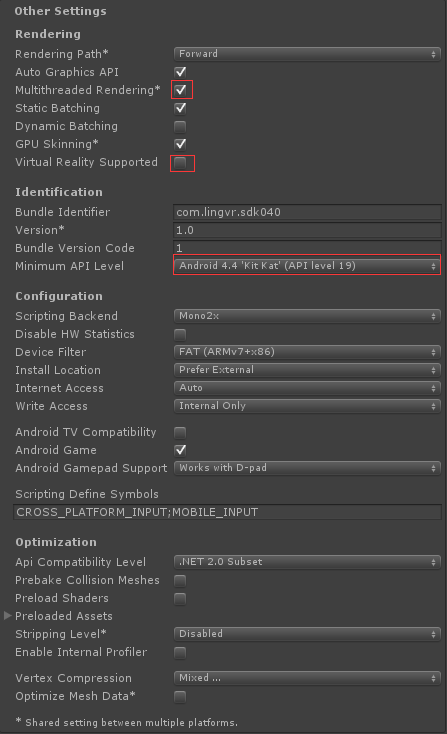
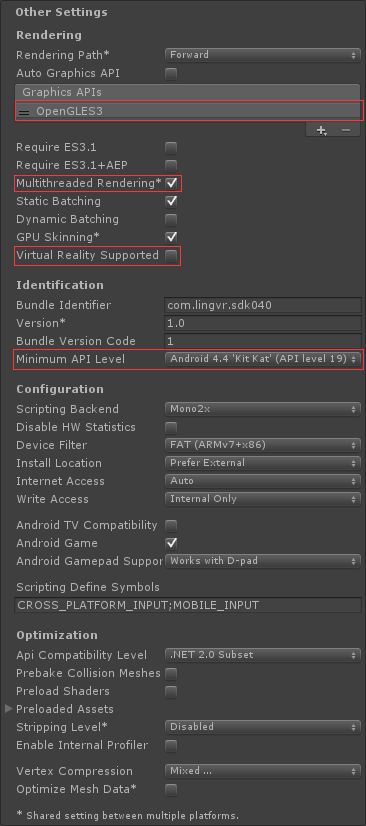
update  description

Changed region(s): [[0.0, 0.0, 1.0, 1.0], [0.5109, 0.9891, 0.6011, 1.0]]

diff --git a/en/development.md b/en/development.md
@@ -22,13 +22,22 @@ After importing through Assets -> Import Package -> Custom Package, you will see
 
 ### 2.Project settings
 
-* Disable `Player setting -> Other Settings -> Virtual Reality Support`
+#### Resolution and Presentation
 
-* Set device oreitation to "Landscape Left"
+* Set default oreitation to "Landscape Left"
+* Uncheck `32-bit Display Buffer` if your project has performance issures
 
-* Disable `32-bit Display Buffer` and `24-bit Depth` to improve performance
+#### Other Settings
+
+* Check `Multithreaded Rendering`
+* Uncheck `Auto Graphics API`, and use `OpenGLES3` **only**
+* Uncheck `Player setting -> Other Settings -> Virtual Reality Support` ( Avoid conflicts with other VR support )
+* Set `Minimum API Level` to `Android 4.4 'Kit Kat'(API level 19)`
+* Others are optional, see:
 
     ![Project settings](images/settings.png)
+
+#### AndroidMenifest.xml
 
 * Add following settings to AndroidMenifest.xml:
 
